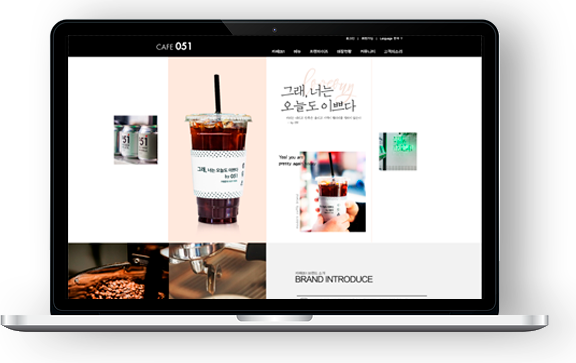
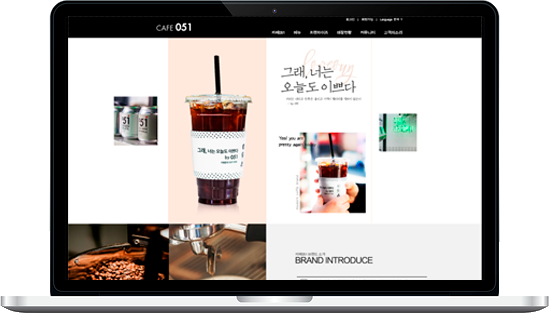
renew이미지

diff --git a/css/style.css b/css/style.css
@@ -126,16 +126,19 @@ background:#4c7ea7}
 .renew_01 > .re_box > .re_left .hd3 > p{font-size:15px; line-height:5px;}
 .renew_01 > .re_box > .re_left .hd3 > h3{font-size:35px; letter-spacing:-3px}
 .renew_01 > .re_box > .re_left > h3 > span{font-size:15px;}
-.renew_01 > .re_box > .re_left .re_logo{margin-top:25px; width:100px; height:100px; background:#73AAB8}
+.renew_01 > .re_box > .re_left .re_logo{}
+.renew_01 > .re_box > .re_left .re_logo > img{padding-top:20px;}
 .renew_01 > .re_box > .re_left .re_ex{margin-top:25px;}
 .renew_01 > .re_box > .re_left .re_ex > ul{}
 .renew_01 > .re_box > .re_left .re_ex > ul > li{padding-top:55px; overflow:hidden}
 .renew_01 > .re_box > .re_left .re_ex > ul > li > .title{font-size:17px; font-weight:bold;
  line-height:30px;}
 .renew_01 > .re_box > .re_left .re_ex > ul > li > .explain{font-size:16px; font-weight:lighter;}
+/*
 .renew_01 > .re_box > .re_left .re_ex > ul > li >  .color_01{float:left; margin-right:10px;
 width:63px; height:18px; background:#8199d6}
 .renew_01 > .re_box > .re_left .re_ex > ul > li > .color_02{float:left; width:63px; height:18px; background:#3b485f}
+*/
 /*btn*/
 .renew_01 > .re_box > .re_left .re_ex > .re_btn{overflow:hidden}
 .renew_01 > .re_box > .re_left .re_ex > .re_btn > li{float:left; margin-left:40px;}

diff --git a/index.html b/index.html
@@ -160,10 +160,10 @@
 				</div>
 				<div class="re_right">
 					<div class="moniter">
-						<img src="images/moniter.png" alt="">
+						<img src="images/re01_moni.png" alt="카페051모니터">
 					</div>
 					<div class="phone">
-						<img src="images/phone.png" alt="">
+						
 					</div>
 				</div>
 			</div>
@@ -193,9 +193,8 @@
 										<p class="explain">활동적인, 건강한</p>
 									</li>
 									<li>
-										<p class="title">COLOR</p>
-										<div class="color_01"></div>
-										<div class="color_02"></div>
+										<p class="title">PROJECT TYPE</p>
+										<p>Personal project</p>
 									</li>
 									<li>
 										<p class="title">디자인소개</p>
@@ -212,11 +211,9 @@
 				</div>
 				<div class="re_right">
 					<div class="moniter">
-						<img src="images/moniter.png" alt="">
+						<img src="images/re02_moni.png" alt="avalon모니터">
 					</div>
-					<div class="phone">
-						<img src="images/phone.png" alt="">
-					</div>
+					<div class="phone"></div>
 				</div>
 			</div>
 		</div>		
